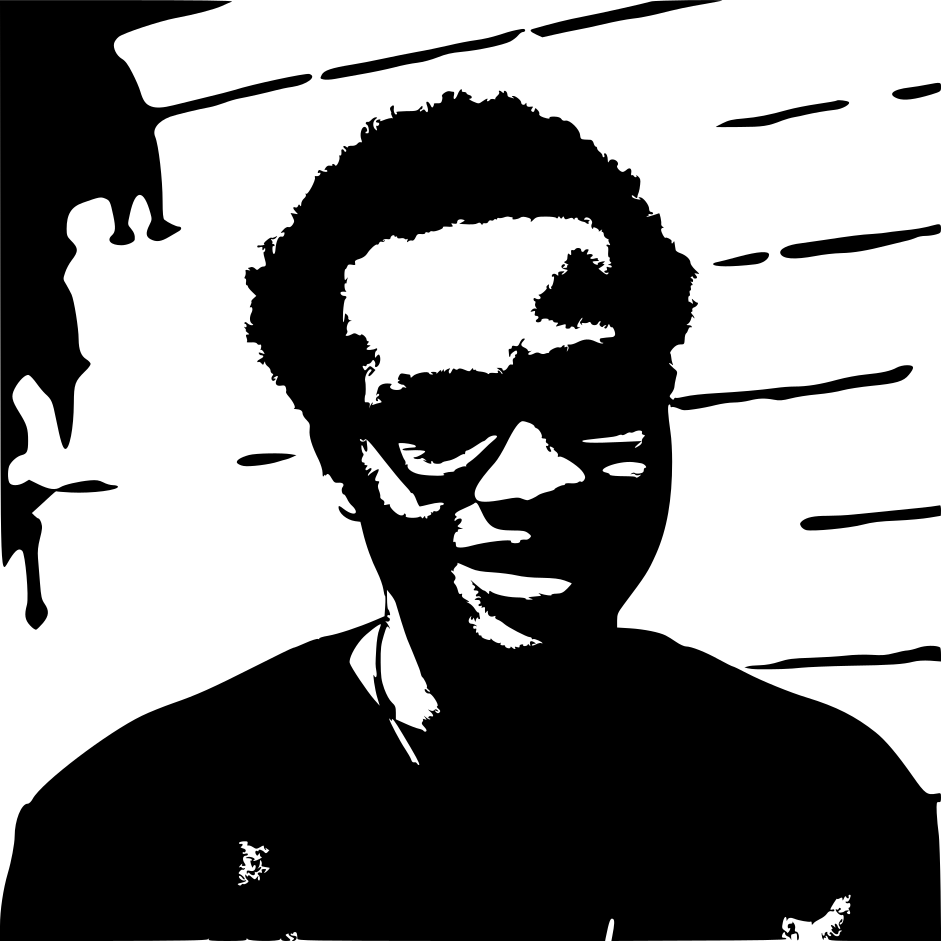
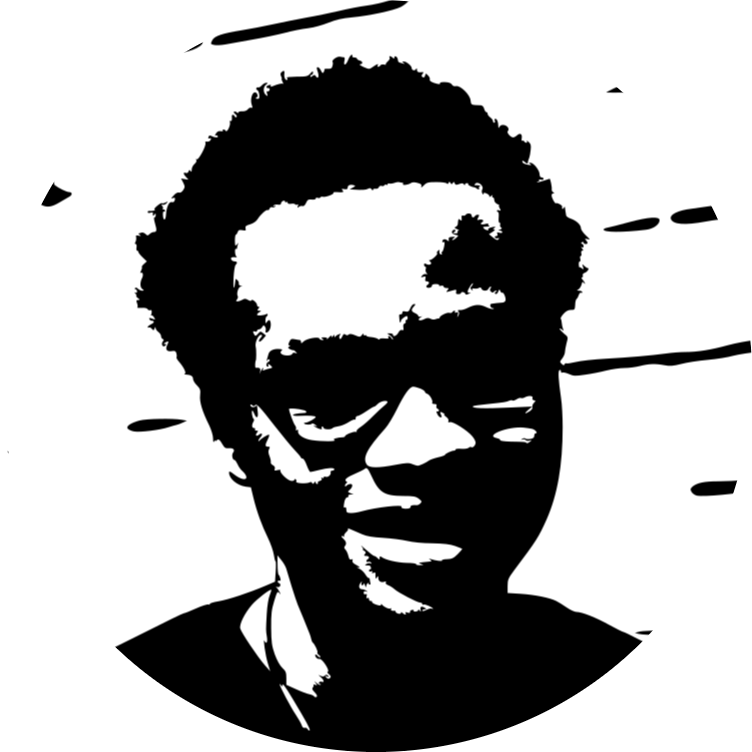
Add resume download functionality

diff --git a/src/app/landing/landing.component.ts b/src/app/landing/landing.component.ts
@@ -1,5 +1,6 @@
 import { Component, OnInit } from '@angular/core';
 import { Form, NgForm } from '@angular/forms';
+import { Renderer2 } from '@angular/core'
 
 
 @Component({
@@ -9,9 +10,20 @@ import { Form, NgForm } from '@angular/forms';
 })
 export class LandingComponent implements OnInit {
 
-  constructor() { }
+  constructor(private renderer: Renderer2) {}
+
+   downloadFile() {
+      const link = document.createElement('a');
+      link.setAttribute('target', '_blank');
+      link.setAttribute('href', 'https://drive.google.com/u/0/uc?id=1VTiGzphtFJ89tZ1W0QxJIYVv-kO10y8q&export=download');
+      link.setAttribute('download', `Jilks_Smith.pdf`);
+      link.click();
+      link.remove();
+   }
+
 
   ngOnInit(): void {
+
   }
 
 }

diff --git a/src/app/landing/landing.component.html b/src/app/landing/landing.component.html
@@ -8,7 +8,7 @@
       As a freelancer he has gained experience in android app development,
       MEAN Stack web apps and developing back-end systems in Java and NodeJs.</p>
 
-    <button mat-stroked-button>
+    <button mat-stroked-button (click)="downloadFile()">
       Download CV
       <mat-icon>cloud_download</mat-icon>
     </button>
@@ -134,7 +134,7 @@
         </mat-card>
 
         <mat-card class="mat-elevation-z5">
-          <img src="../../assets/images/python.png" width="60px"/>
+          <img src="../../assets/images/skills/python.png" width="60px"/>
 
         </mat-card>
 

diff --git a/src/app/header/header.component.html b/src/app/header/header.component.html
@@ -1,8 +1,9 @@
 <!-- Toolbar -->
 <mat-toolbar class="toolbar" color = "primary" >
 
+
   <span>
-  <a href="#home" class="logo" mat-button> Smith
+  <a href="#home" class="logo"> <img src="../../assets/images/me.png" width="50px"/>
   </a>
   </span>
 
